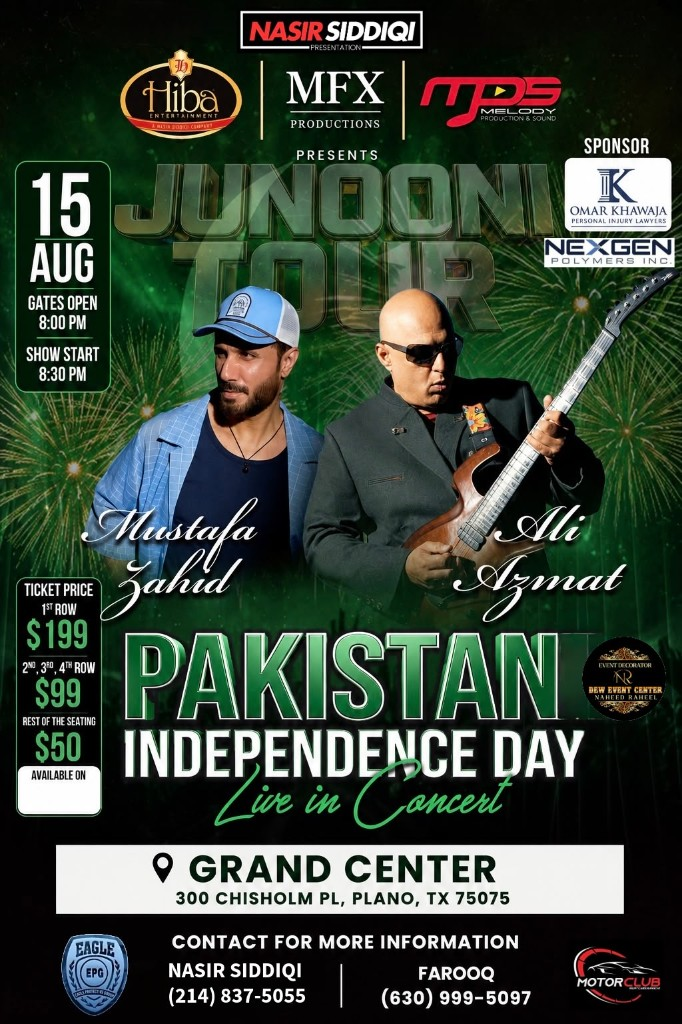
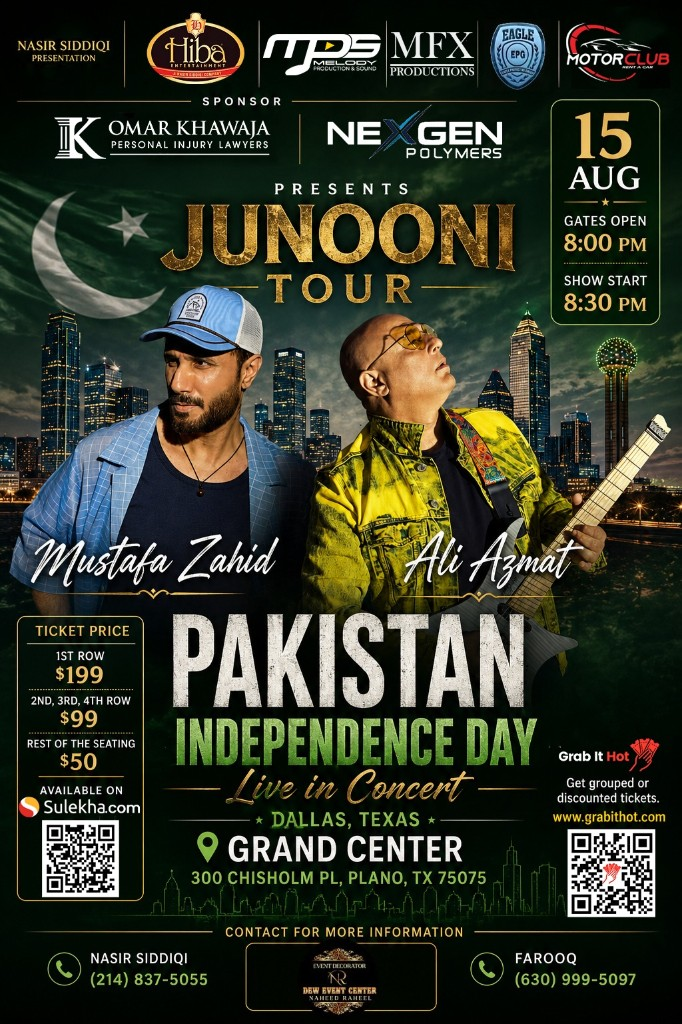
Add Junooni Tour New Jersey and refresh Dallas poster.
Add the Elizabeth NJ show with Dallas-matching VVIP/VIP/GA pricing, update schedule helpers and card crop, and replace the Dallas event poster.

diff --git a/backend/seed.js b/backend/seed.js
@@ -94,6 +94,41 @@ const events = [
     tags: ['Junooni', 'Mustafa Zahid', 'Ali Azmat', 'Dallas', 'Plano', 'Texas', 'Pakistan Independence Day', 'Grand Center'],
   },
   {
+    title: 'Junooni Tour - New Jersey',
+    description:
+      'JUNOONI TOUR featuring Mustafa Zahid & Ali Azmat — live in New Jersey.\n\n' +
+      'Friday, August 14, 2026 at Ritz Theatre & Performing Arts Center, Elizabeth, NJ. Gates open at 8:00 PM · Concert starts at 8:30 PM (US Eastern).\n\n' +
+      'Grab It Hot is proud to list this experience. When you book or request tickets here, you get clear information, careful handling of your details, and a straightforward path to confirmation.\n\n' +
+      'Booking & inquiries:\n' +
+      '• Arif Khan — (646) 393-6994\n' +
+      '• Farooq — (630) 999-5097\n\n' +
+      'Presented with support from The Musik World, MPS Melody Production & Sound, MFX Productions, and Nexgen Polymers.',
+    category: 'Music',
+    date: new Date('2026-08-14T20:30:00-04:00'),
+    endDate: new Date('2026-08-15T01:00:00-04:00'),
+    location: {
+      venue: 'Ritz Theatre & Performing Arts Center',
+      city: 'Elizabeth',
+      state: 'NJ',
+      address: '1148 E Jersey St',
+      zipCode: '07201',
+    },
+    organizer: {
+      name: 'The Musik World & MFX Productions',
+      phone: '+1 (646) 393-6994',
+    },
+    image: '/uploads/junooni-tour-new-jersey-2026.png',
+    ticketTiers: [
+      { name: 'VVIP (Meet & Greet)', price: 199, capacity: 40, description: 'Front row · Meet & Greet included' },
+      { name: 'VIP', price: 99, capacity: 120, description: 'Rows 2–4 seating' },
+      { name: 'General Admission', price: 50, capacity: 600, description: 'General seating' },
+    ],
+    featured: true,
+    status: 'upcoming',
+    dateComingSoon: false,
+    tags: ['Junooni', 'Mustafa Zahid', 'Ali Azmat', 'New Jersey', 'Elizabeth', 'Ritz Theatre'],
+  },
+  {
     title: 'Farhan Live in Chicago',
     description:
       'Farhan Saeed live in Chicago — Friday, April 24, 2026 at 7:00 PM (US Central) at NUR LOFT, Addison. Presented by MFX Productions in association with M Events and Marketing. National promoter: WO ADVERTISING.\n\n' +

diff --git a/frontend/src/components/EventCard.js b/frontend/src/components/EventCard.js
@@ -1,6 +1,6 @@
 import React from 'react';
 import { Link } from 'react-router-dom';
-import { eventCardFromPrice, formatCurrency, formatEventLocationOneLine, formatEventScheduleDate, getCategoryIcon, getEventMonthDayParts, hasDirectPayDiscount, isJunooniChicagoEvent, isJunooniDallasEvent, resolveEventImageUrl } from '../utils/helpers';
+import { eventCardFromPrice, formatCurrency, formatEventLocationOneLine, formatEventScheduleDate, getCategoryIcon, getEventMonthDayParts, hasDirectPayDiscount, isJunooniChicagoEvent, isJunooniDallasEvent, isJunooniNewJerseyEvent, resolveEventImageUrl } from '../utils/helpers';
 import FarhanZellePricePair from './FarhanZellePricePair';
 import { FaCalendarDays, FaLocationDot } from 'react-icons/fa6';
 
@@ -9,7 +9,7 @@ const EventCard = ({ event, style }) => {
   const showStrikePrice = hasDirectPayDiscount(event) && cardSalePrice < cardListPrice;
   const { month, day } = event.dateComingSoon ? { month: '', day: '' } : getEventMonthDayParts(event.date);
   const CategoryIcon = getCategoryIcon(event.category);
-  const imgPositionClass = isJunooniDallasEvent(event)
+  const imgPositionClass = (isJunooniDallasEvent(event) || isJunooniNewJerseyEvent(event))
     ? ' event-card__img--artists'
     : isJunooniChicagoEvent(event)
       ? ' event-card__img--top'

diff --git a/frontend/src/utils/helpers.js b/frontend/src/utils/helpers.js
@@ -17,6 +17,10 @@ export function isJunooniDallasEvent(ev) {
   return isJunooniTourEvent(ev) && /dallas/i.test(String(ev.title || ''));
 }
 
+export function isJunooniNewJerseyEvent(ev) {
+  return isJunooniTourEvent(ev) && /new\s*jersey|elizabeth|nj\b/i.test(String(ev.title || ''));
+}
+
 export const formatDate = (date) => {
   try { return format(new Date(date), 'EEE, MMM d, yyyy'); }
   catch { return date; }
@@ -60,6 +64,9 @@ export const formatEventSchedule = (event) => {
   if (isJunooniDallasEvent(event)) {
     return 'Sat, Aug 15, 2026 · Gates 8:00 PM · Show 8:30 PM CDT';
   }
+  if (isJunooniNewJerseyEvent(event)) {
+    return 'Fri, Aug 14, 2026 · Gates 8:00 PM · Show 8:30 PM EDT';
+  }
   return formatEventDateTime(event?.date);
 };
 
@@ -67,6 +74,7 @@ export const formatEventScheduleDate = (event) => {
   if (event?.dateComingSoon) return 'Coming soon';
   if (isJunooniChicagoEvent(event)) return 'Sat, Aug 8, 2026';
   if (isJunooniDallasEvent(event)) return 'Sat, Aug 15, 2026';
+  if (isJunooniNewJerseyEvent(event)) return 'Fri, Aug 14, 2026';
   return formatEventDate(event?.date);
 };
 

diff --git a/frontend/src/pages/HomePage.js b/frontend/src/pages/HomePage.js
@@ -189,7 +189,7 @@ const HomePage = () => {
 
   const tickerEvents = featured.length
     ? featured.map((event) => event.title)
-    : ['Junooni Tour — Chicago, IL', 'Junooni Tour - Dallas Texas'];
+    : ['Junooni Tour — Chicago, IL', 'Junooni Tour - Dallas Texas', 'Junooni Tour - New Jersey'];
 
   const TICKER_SLOTS_PER_HALF = 18;
   const tickerHalf = Array.from({ length: TICKER_SLOTS_PER_HALF }, (_, i) => tickerEvents[i % tickerEvents.length]);
